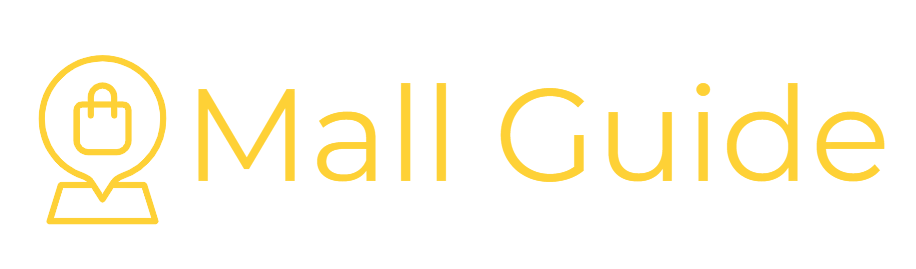
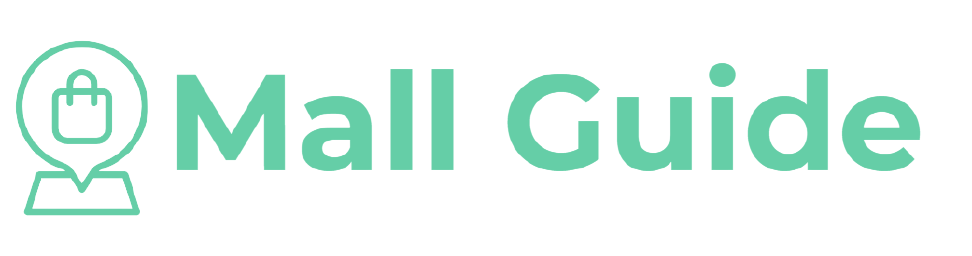
Made UI Minor Changes

Changed region(s): [[0.0, 0.1562, 0.4891, 0.8438], [0.5197, 0.25, 0.9782, 0.6875]]

diff --git a/assets/css/signin.css b/assets/css/signin.css
@@ -10,7 +10,7 @@
 section {
   position: relative;
   min-height: 100vh;
-  background-color: #f8dd30;
+  background-color: #65cea7;
   display: flex;
   justify-content: center;
   align-items: center;
@@ -109,7 +109,7 @@ section .container .user .formBx form select{
 
 section .container .user .formBx form input[type='submit'] {
   max-width: 100px;
-  background: #677eff;
+  background: #65cea7;
   color: #fff;
   cursor: pointer;
   font-size: 14px;
